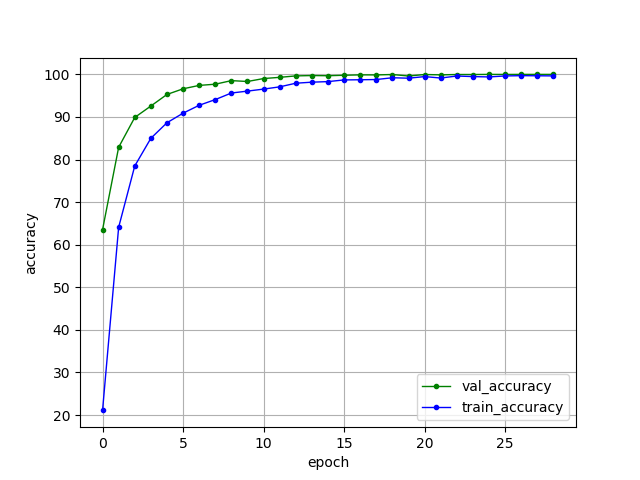
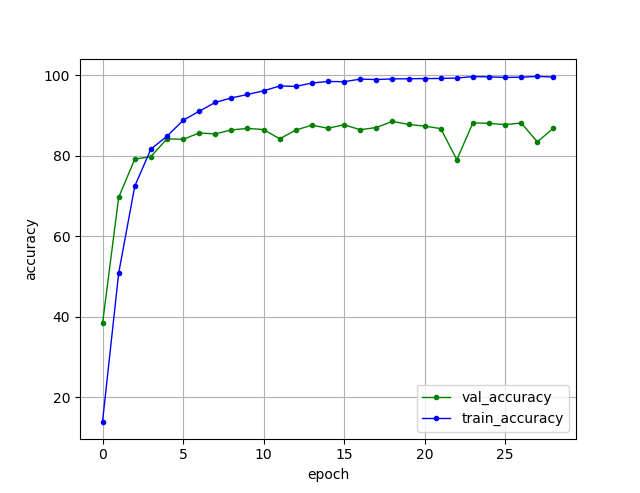
수정
train, val 이미지 셋 랜덤 분리 추가

diff --git a/Train.py b/Train.py
@@ -47,7 +47,7 @@ def fit(epoch, model, data_loader, phase='training', volatile=False, is_cuda=Tru
     #  loss, optimizer
     if model_type == "custom":
         criterion = F.cross_entropy
-        optimizer = optim.SGD(model.parameters(), lr=Leaning_Rate)
+        optimizer = optim.Adam(model.parameters(), lr=Leaning_Rate)
 
     elif model_type == "vgg":
         criterion = F.cross_entropy
@@ -106,26 +106,27 @@ def training():
         is_cuda = True
         print("cuda support")
 
-    TRAIN_PATH = "Imgs"
-    TEST_PATH = "Imgs"
+    IMG_PATH = "Imgs"
 
     my_transform = transforms.Compose([transforms.Resize((224, 224)),
                                        transforms.ToTensor(),
                                        transforms.Normalize((0.5, 0.5, 0.5), (0.5, 0.5, 0.5))
                                        ])
 
-    train = ImageFolder(TRAIN_PATH, my_transform)
-    test = ImageFolder(TEST_PATH, my_transform)
+    Images = ImageFolder(IMG_PATH, my_transform)
+
+    print("class2idx:{}".format(Images.class_to_idx))
+    print("class:{}".format(Images.classes))
+    print("len:{}".format(len(Images.classes)))
+
+    train_size = int(len(Images) * 0.7)
+    train, val = torch.utils.data.random_split(Images, [train_size, len(Images) - train_size])
 
     print("len data1:{}".format(len(train)))
-    print("len data2:{}".format(len(test)))
-
-    print("class2idx:{}".format(train.class_to_idx))
-    print("class:{}".format(train.classes))
-    print("len:{}".format(len(train.classes)))
+    print("len data2:{}".format(len(val)))
 
     train_data_loader = torch.utils.data.DataLoader(train, batch_size=16, num_workers=4,  pin_memory=True if is_cuda else False, shuffle=True)
-    valid_data_loader = torch.utils.data.DataLoader(test, batch_size=16, num_workers=4, pin_memory=True if is_cuda else False, shuffle=False)
+    valid_data_loader = torch.utils.data.DataLoader(val, batch_size=16, num_workers=4, pin_memory=True if is_cuda else False, shuffle=False)
 
     print("------------- data load finished -------------------------")
 
